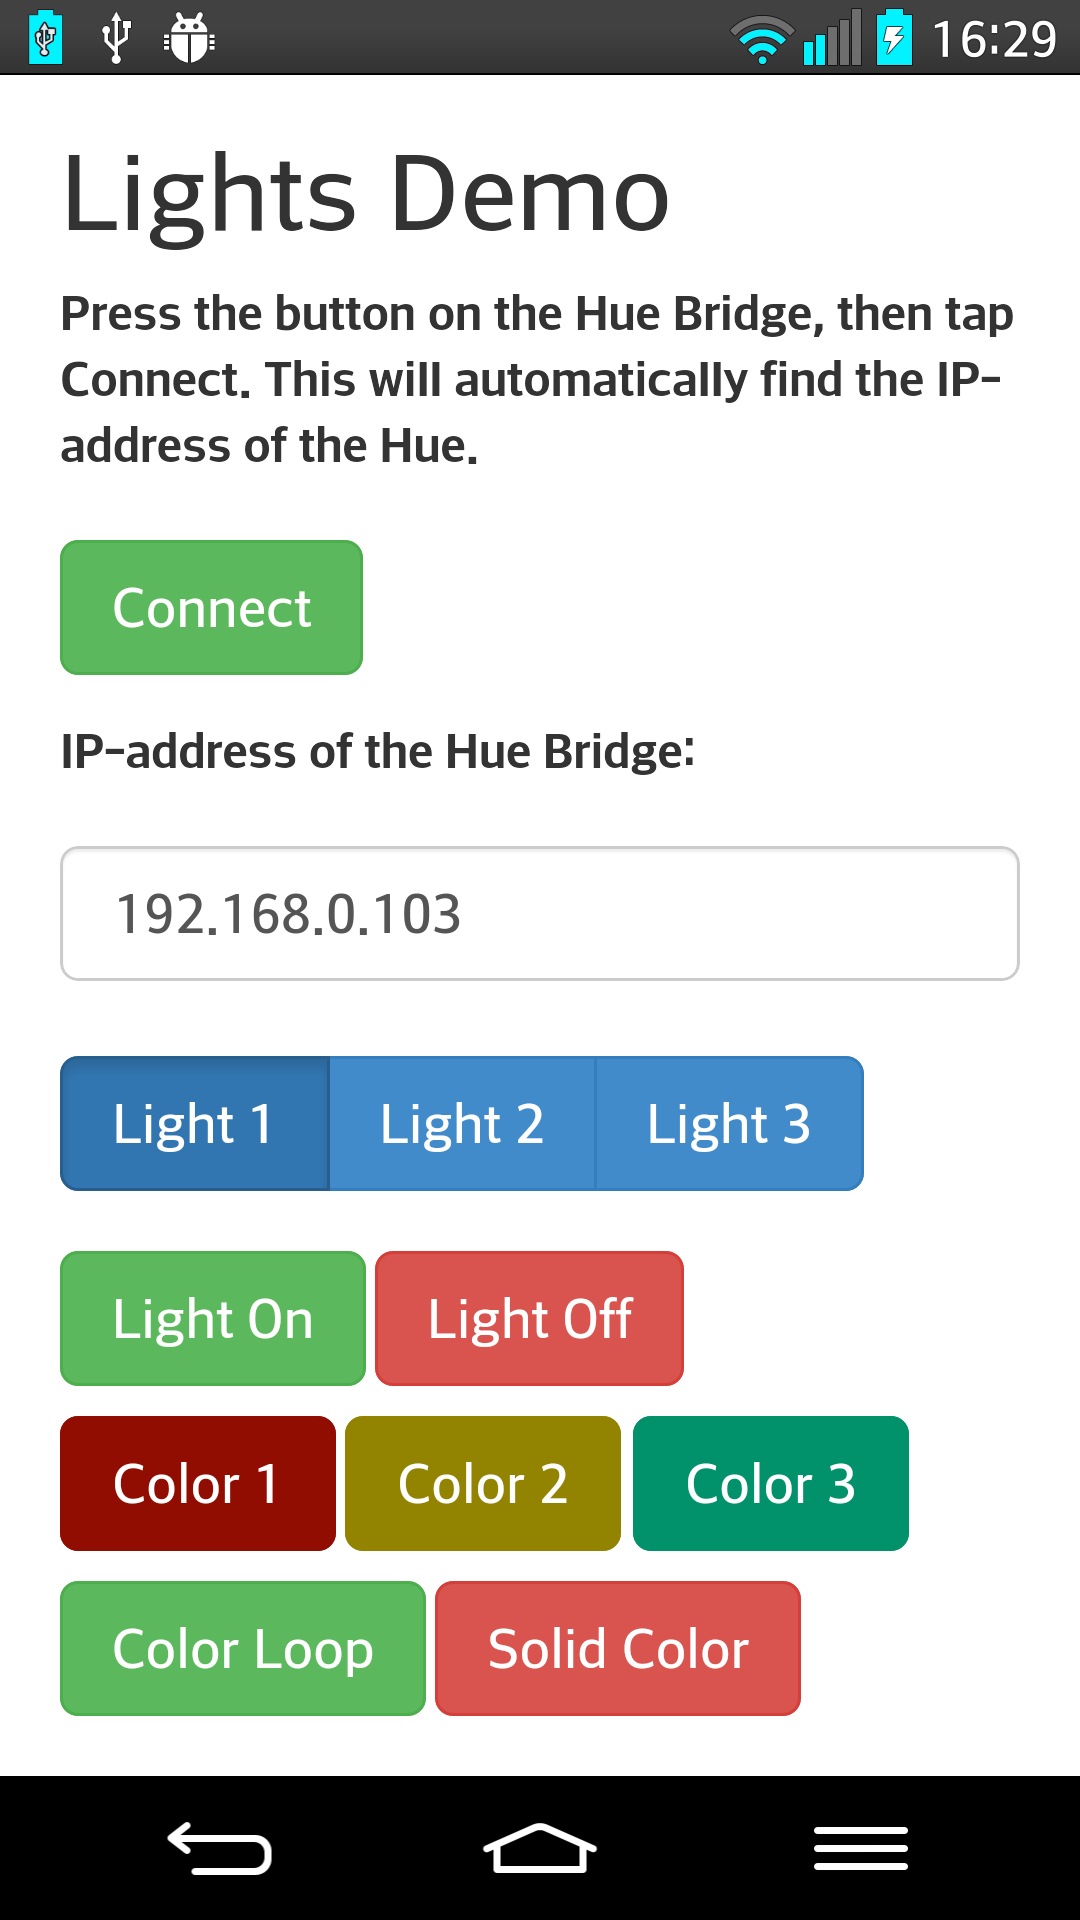
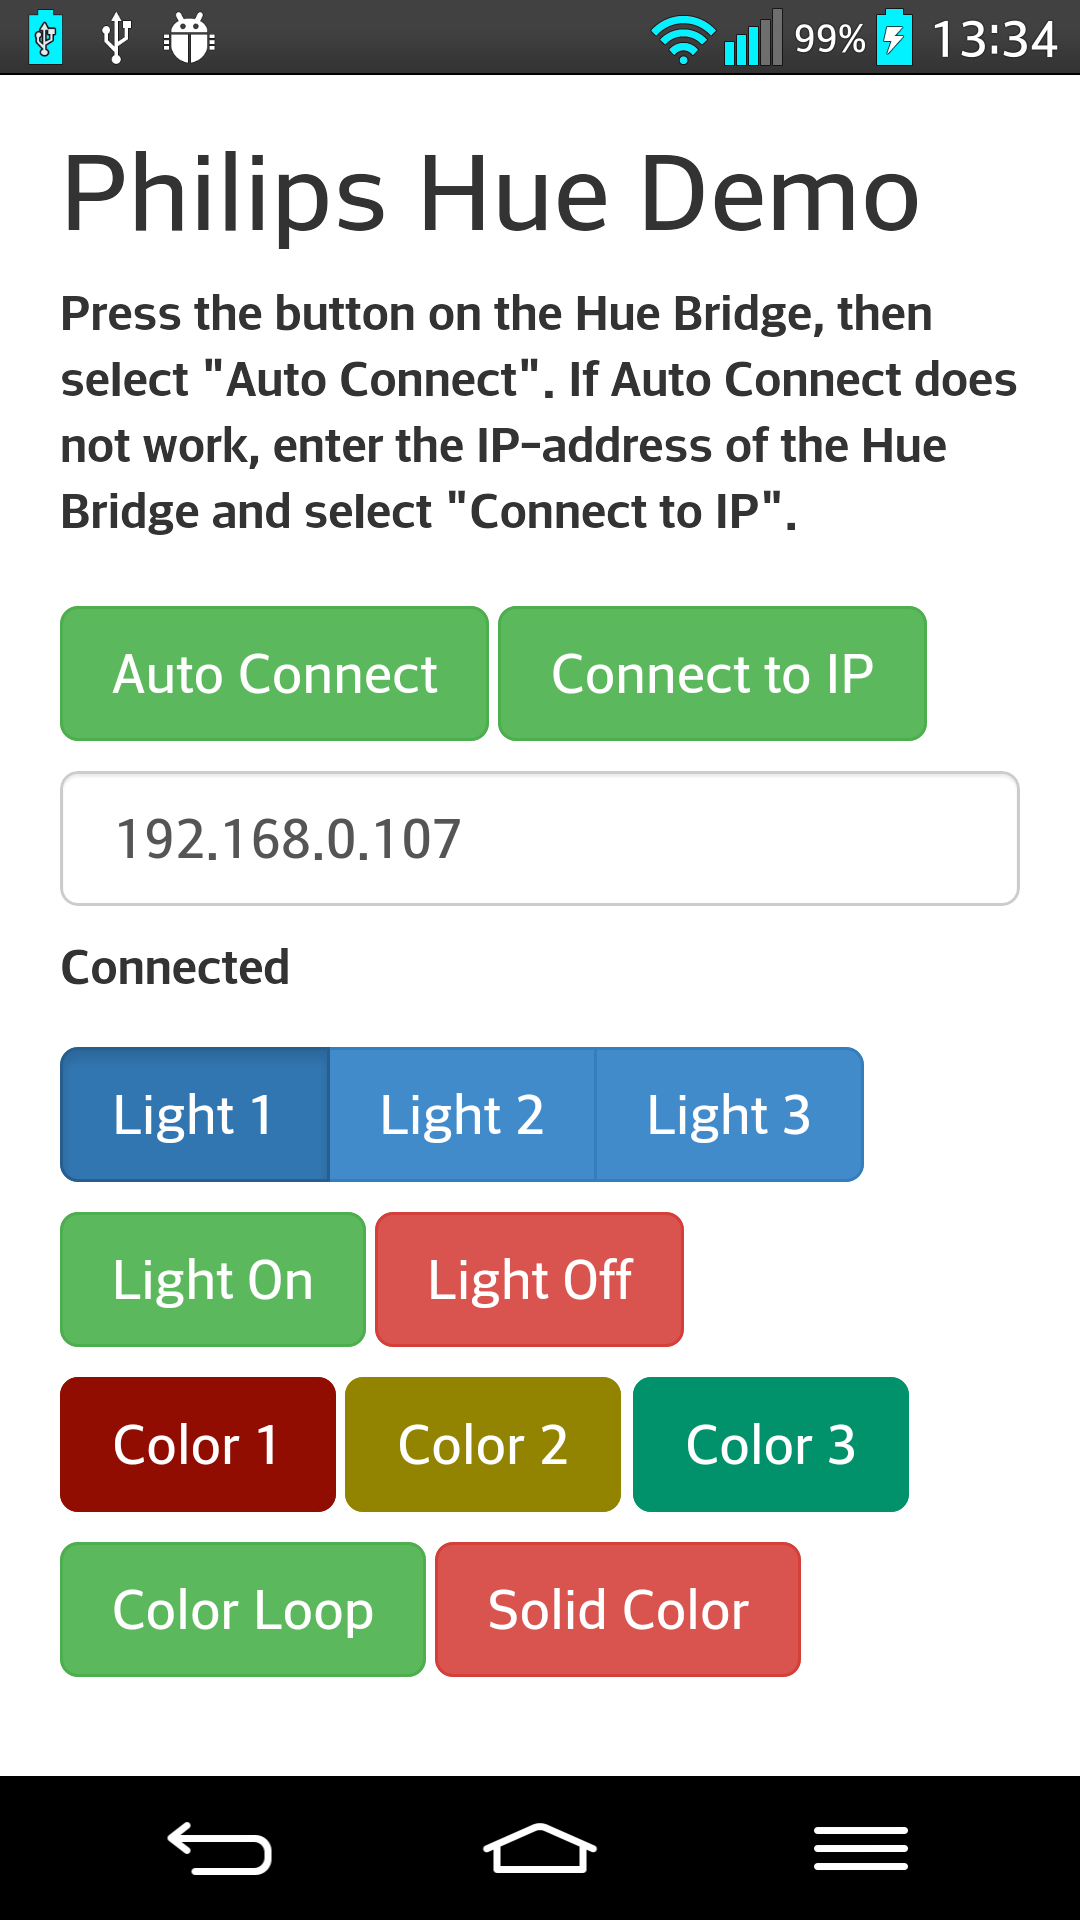
Updated Philips Hue example.

diff --git a/examples.html b/examples.html
@@ -49,7 +49,7 @@ Copyright (c) 2013 Evothings AB
 	<a href="canvas-basic.html"><img class="img-example-gallery-screenshot"
 		src="images/canvas-basic-screenshot.png" alt="Canvas Basic"/></a>
 	<a href="hue-lights.html"><img class="img-example-gallery-screenshot"
-		src="images/hue-lights-screenshot.png" alt="Hue Lights"/></a>
+		src="images/hue-lights-screenshot.png" alt="Philips Hue Demo"/></a>
 	<a href="cordova-basic.html"><img class="img-example-gallery-screenshot"
 		src="images/cordova-basic-screenshot.png" alt="Cordova Basic"/></a>
 	<a href="arduino-led-onoff-tcp.html"><img class="img-example-gallery-screenshot"

diff --git a/js/include-example-menu.js b/js/include-example-menu.js
@@ -3,7 +3,7 @@ document.write(
 	'<div class="box content-index">'
 	+	'<a href="hello-world.html">Hello World</a><br/>'
 	+	'<a href="canvas-basic.html">Canvas Basic</a><br/>'
-	+	'<a href="hue-lights.html">Hue Lights</a><br/>'
+	+	'<a href="hue-lights.html">Philips Hue Demo</a><br/>'
 	+	'<a href="cordova-basic.html">Cordova Basic</a><br/>'
 	+	'<a href="arduino-led-onoff-tcp.html">Arduino LED On/Off TCP</a><br/>'
 	+	'<a href="arduino-led-onoff-ble.html">Arduino LED On/Off BLE</a><br/>'

diff --git a/hue-lights.html b/hue-lights.html
@@ -8,13 +8,13 @@ Copyright (c) 2013-2014 Evothings AB
 -->
 <head>
 <meta charset="utf-8">
-<title>Hue Lights Example</title>
+<title>Philips Hue Example</title>
 <script src="js/include-viewport.js"></script>
 <script src="js/include-css-scripts.js"></script>
 </head>
 
 <body>
-<div id="heading">Hue Lights Example</div>
+<div id="heading">Philips Hue Example</div>
 
 <div id="page"><div id="content">
 
